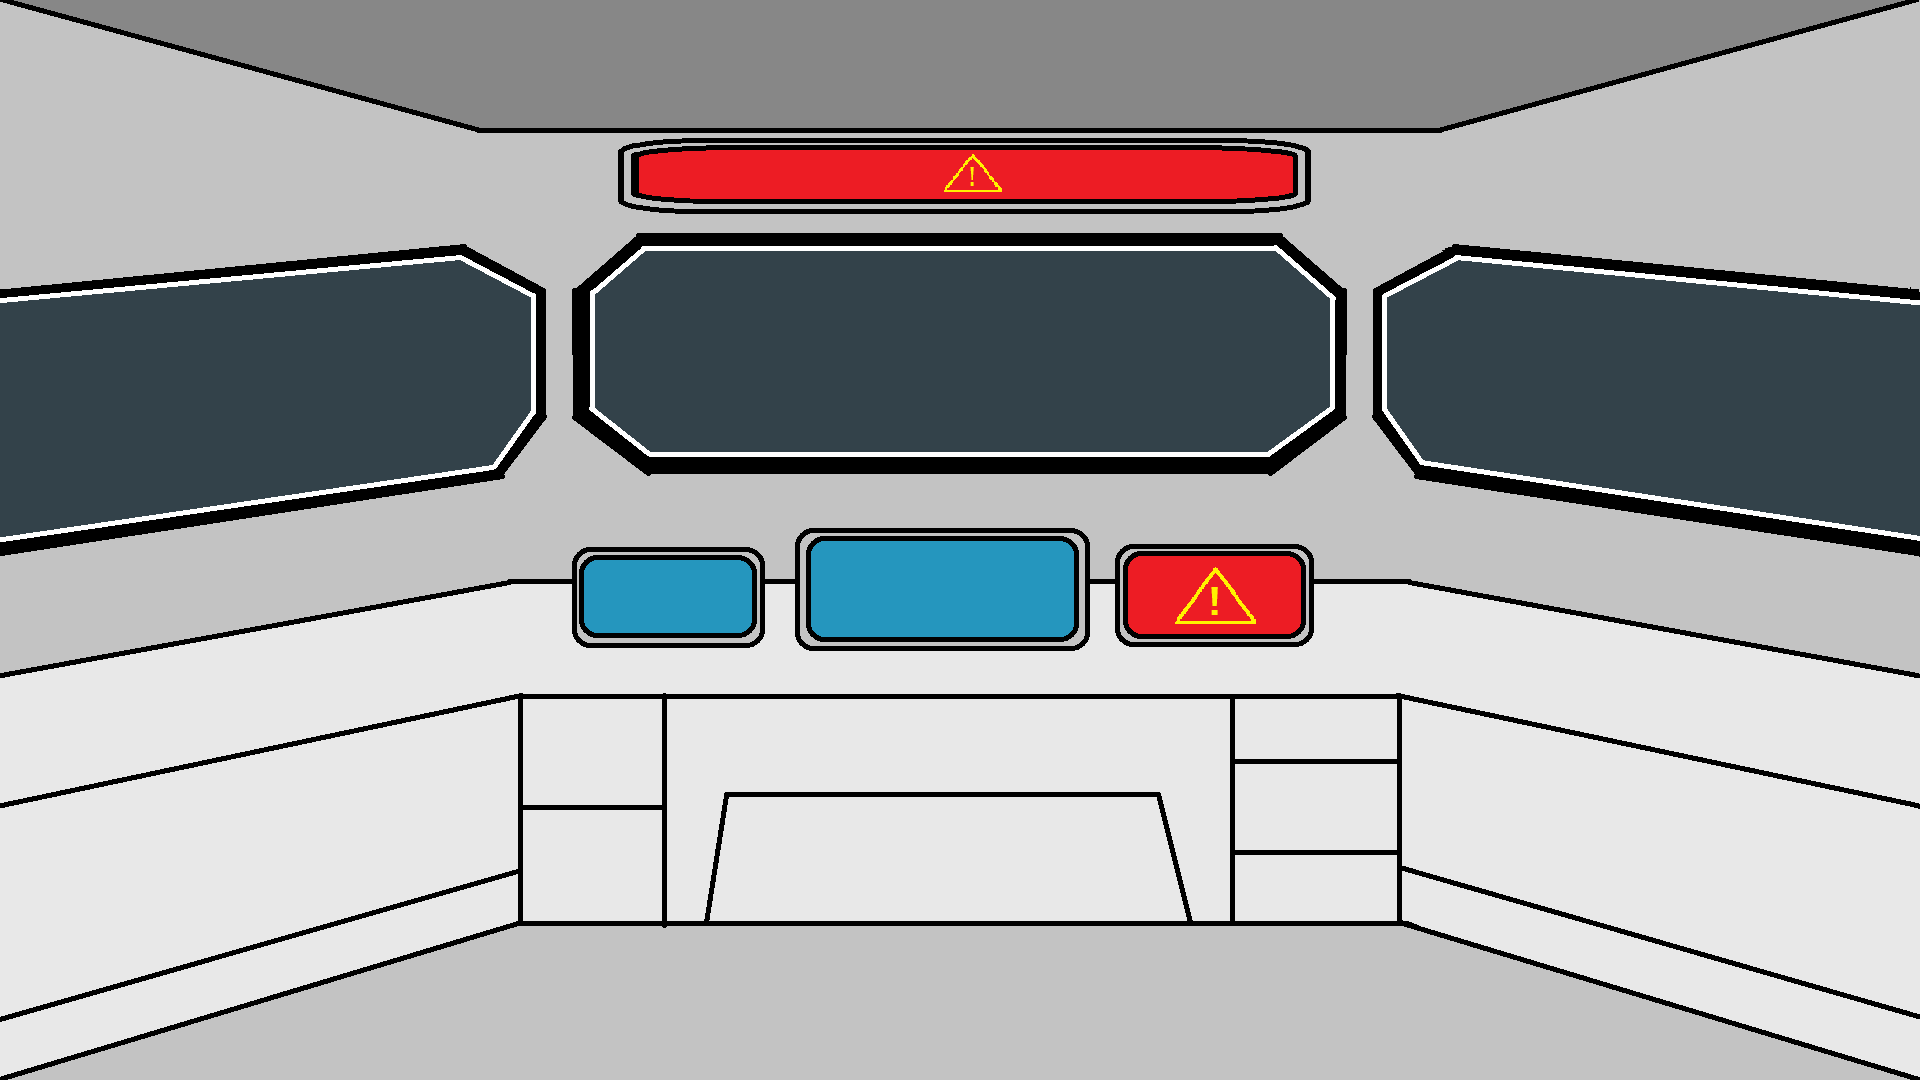
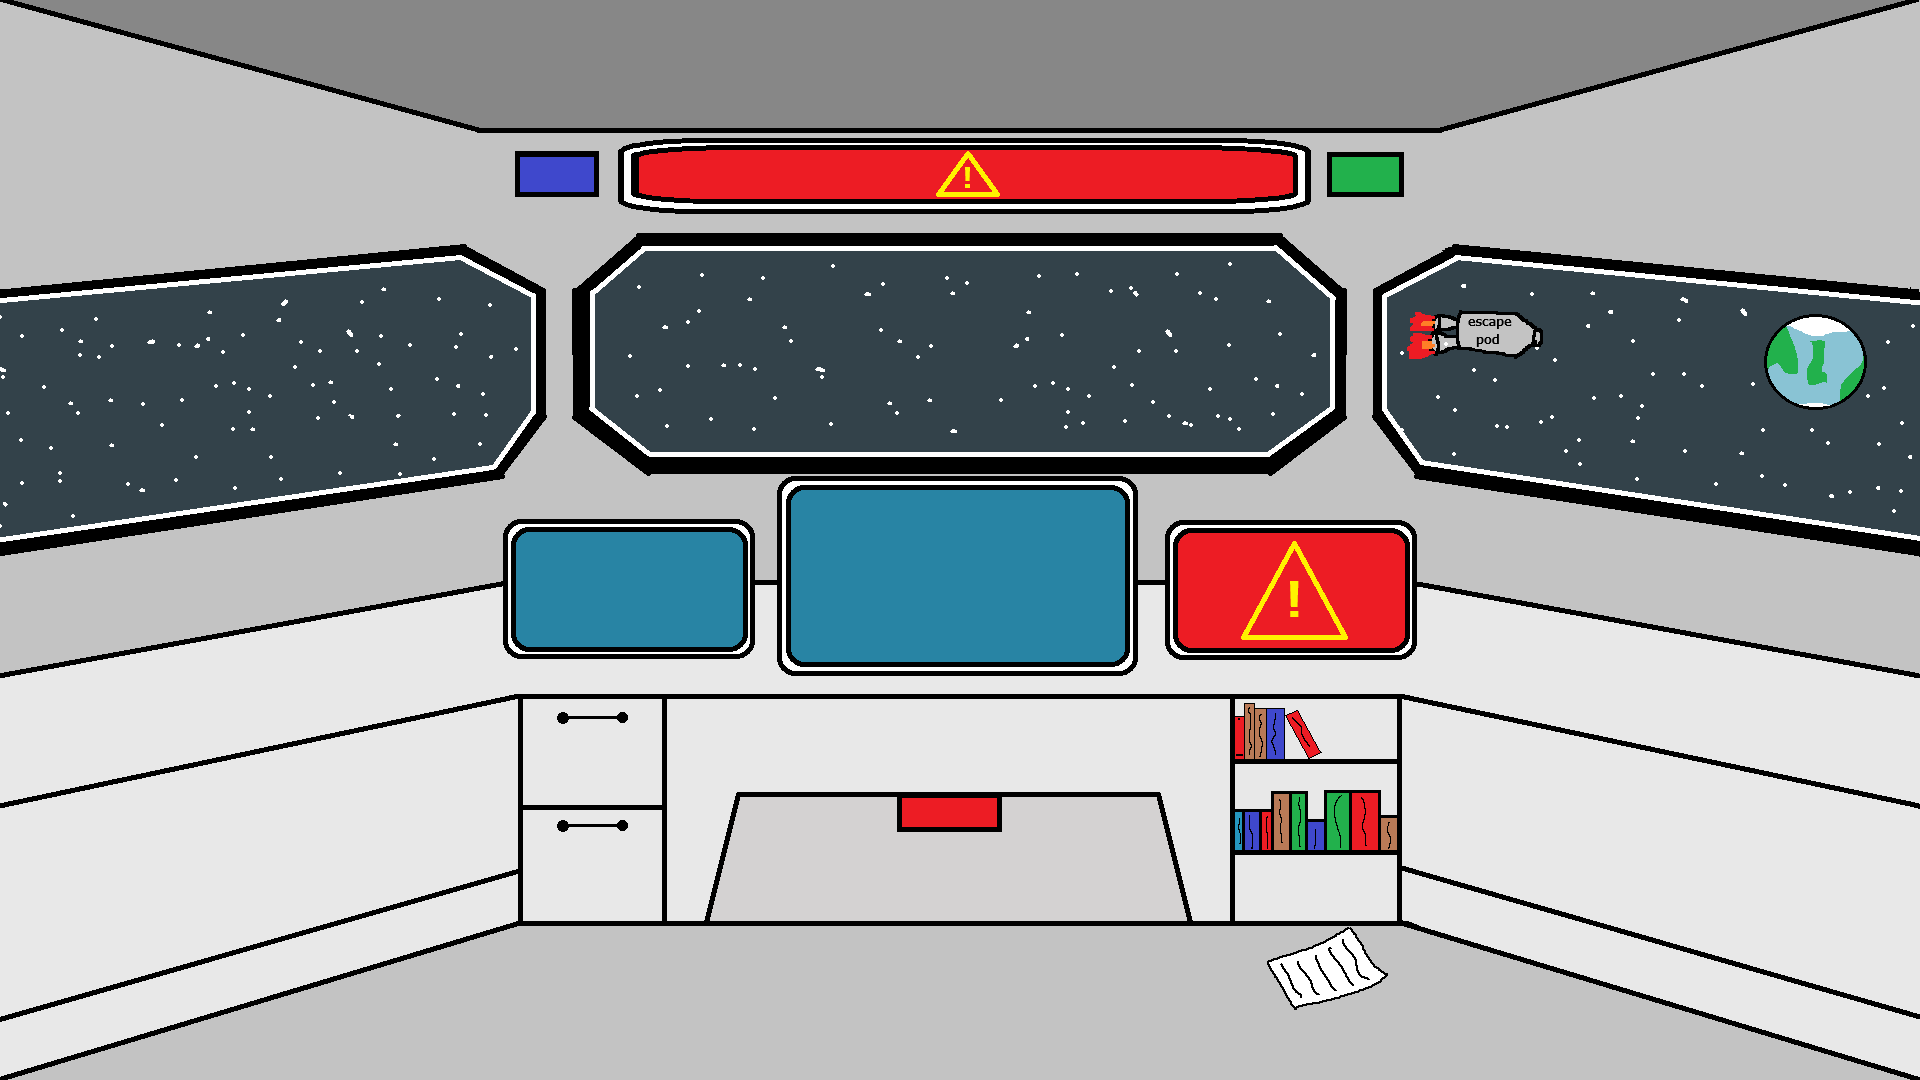
fix: updated room one art Room 1 now has more interesting background Wire has been added

diff --git a/src/main/resources/css/styles.css b/src/main/resources/css/styles.css
@@ -77,7 +77,7 @@
 }
 
 .button-hoverable {
-    -fx-opacity: 1;
+    -fx-opacity: 0;
 }
 
 .button-hoverable:hover {

diff --git a/src/main/java/nz/ac/auckland/se206/controllers/RoomOneController.java b/src/main/java/nz/ac/auckland/se206/controllers/RoomOneController.java
@@ -10,6 +10,7 @@ import javafx.scene.control.Button;
 import javafx.scene.control.Label;
 import javafx.scene.image.ImageView;
 import javafx.scene.input.MouseEvent;
+import javafx.scene.layout.Pane;
 import javafx.scene.shape.Polygon;
 import javafx.scene.shape.Rectangle;
 import nz.ac.auckland.se206.App;
@@ -24,6 +25,7 @@ import nz.ac.auckland.se206.SpeechBubble;
 /** Controller class for the room view. */
 public class RoomOneController {
 
+  @FXML private Pane room;
   @FXML private Rectangle mainWarning;
   @FXML private Rectangle authRectangle;
   @FXML private Rectangle engineWarning;
@@ -38,6 +40,8 @@ public class RoomOneController {
   @FXML private ImageView robot;
   @FXML private ImageView speechBubble;
   @FXML private Button reactivateButton;
+  @FXML private ImageView wire;
+  @FXML private ImageView wireImage;
 
   private static String correctOrderString;
 
@@ -145,6 +149,13 @@ public class RoomOneController {
               + " Please find the spare parts\n"
               + " and fix the engine!");
     }
+  }
+
+  @FXML
+  public void clickWire(MouseEvent event) {
+    GameState.isWireCollected = true;
+    room.getChildren().remove(wire);
+    room.getChildren().remove(wireImage);
   }
 
   /**

diff --git a/src/main/java/nz/ac/auckland/se206/GameState.java b/src/main/java/nz/ac/auckland/se206/GameState.java
@@ -23,6 +23,8 @@ public class GameState {
 
   public static boolean isRoomOneFirst = true;
 
+  public static boolean isWireCollected = false;
+
   // ** Indicates whether the player has solved the math questions and entered the correct passcode.
   // */
   public static boolean isPasscodeSolved = false;
@@ -47,6 +49,7 @@ public class GameState {
     // TODO: Update and double check this
     // Reset all game state variables
     isRiddleResolved = false;
+    isWireCollected = false;
     isPasscodeSolved = false;
     isToolboxRevealed = false;
     isToolboxCollected = false;

diff --git a/src/main/java/nz/ac/auckland/se206/controllers/RoomThreeController.java b/src/main/java/nz/ac/auckland/se206/controllers/RoomThreeController.java
@@ -196,7 +196,7 @@ public class RoomThreeController {
   @FXML
   public void clickHatch(MouseEvent event) throws FileNotFoundException {
     System.out.println("hatch clicked");
-    if (unscrewed && true) {
+    if (unscrewed && GameState.isWireCollected) {
       InputStream stream =
           new FileInputStream(
               "src/main/resources/images/spaceship_exterior_open_hatch_wire_connected.png");
